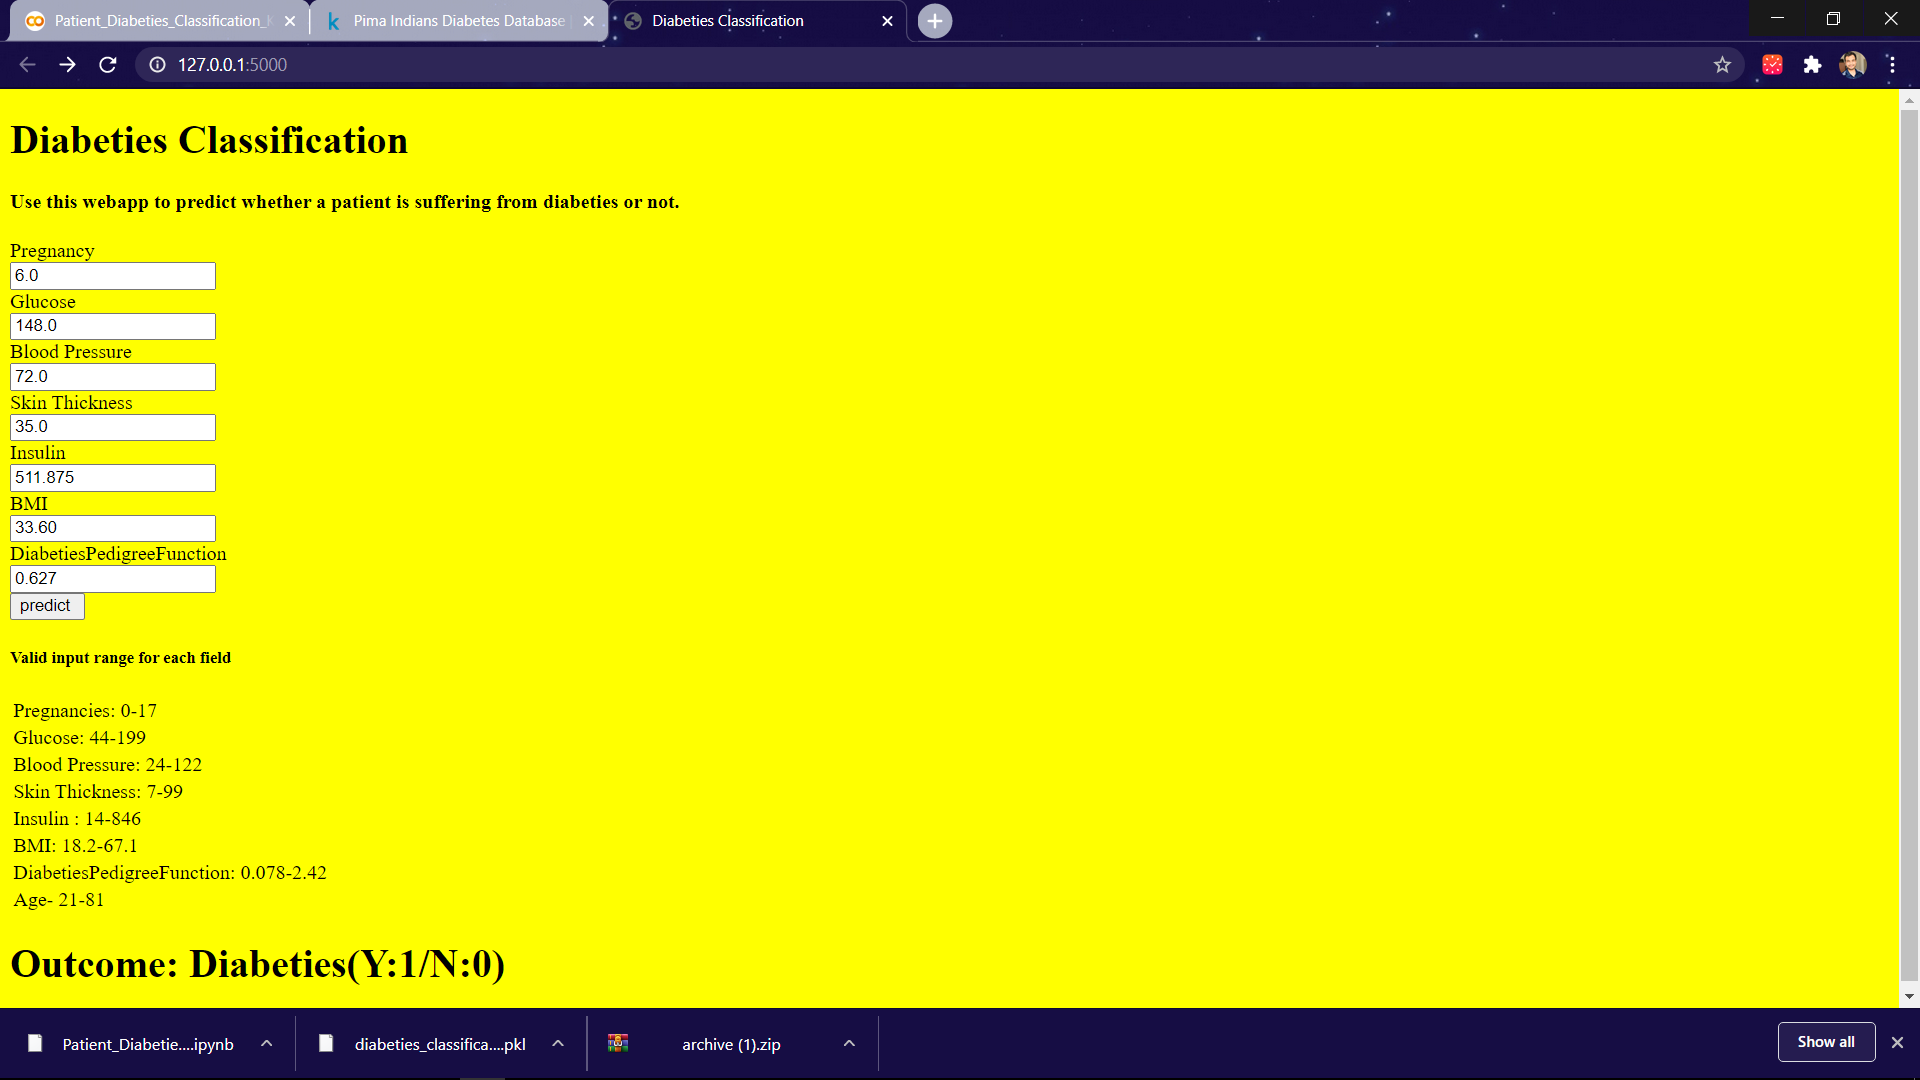
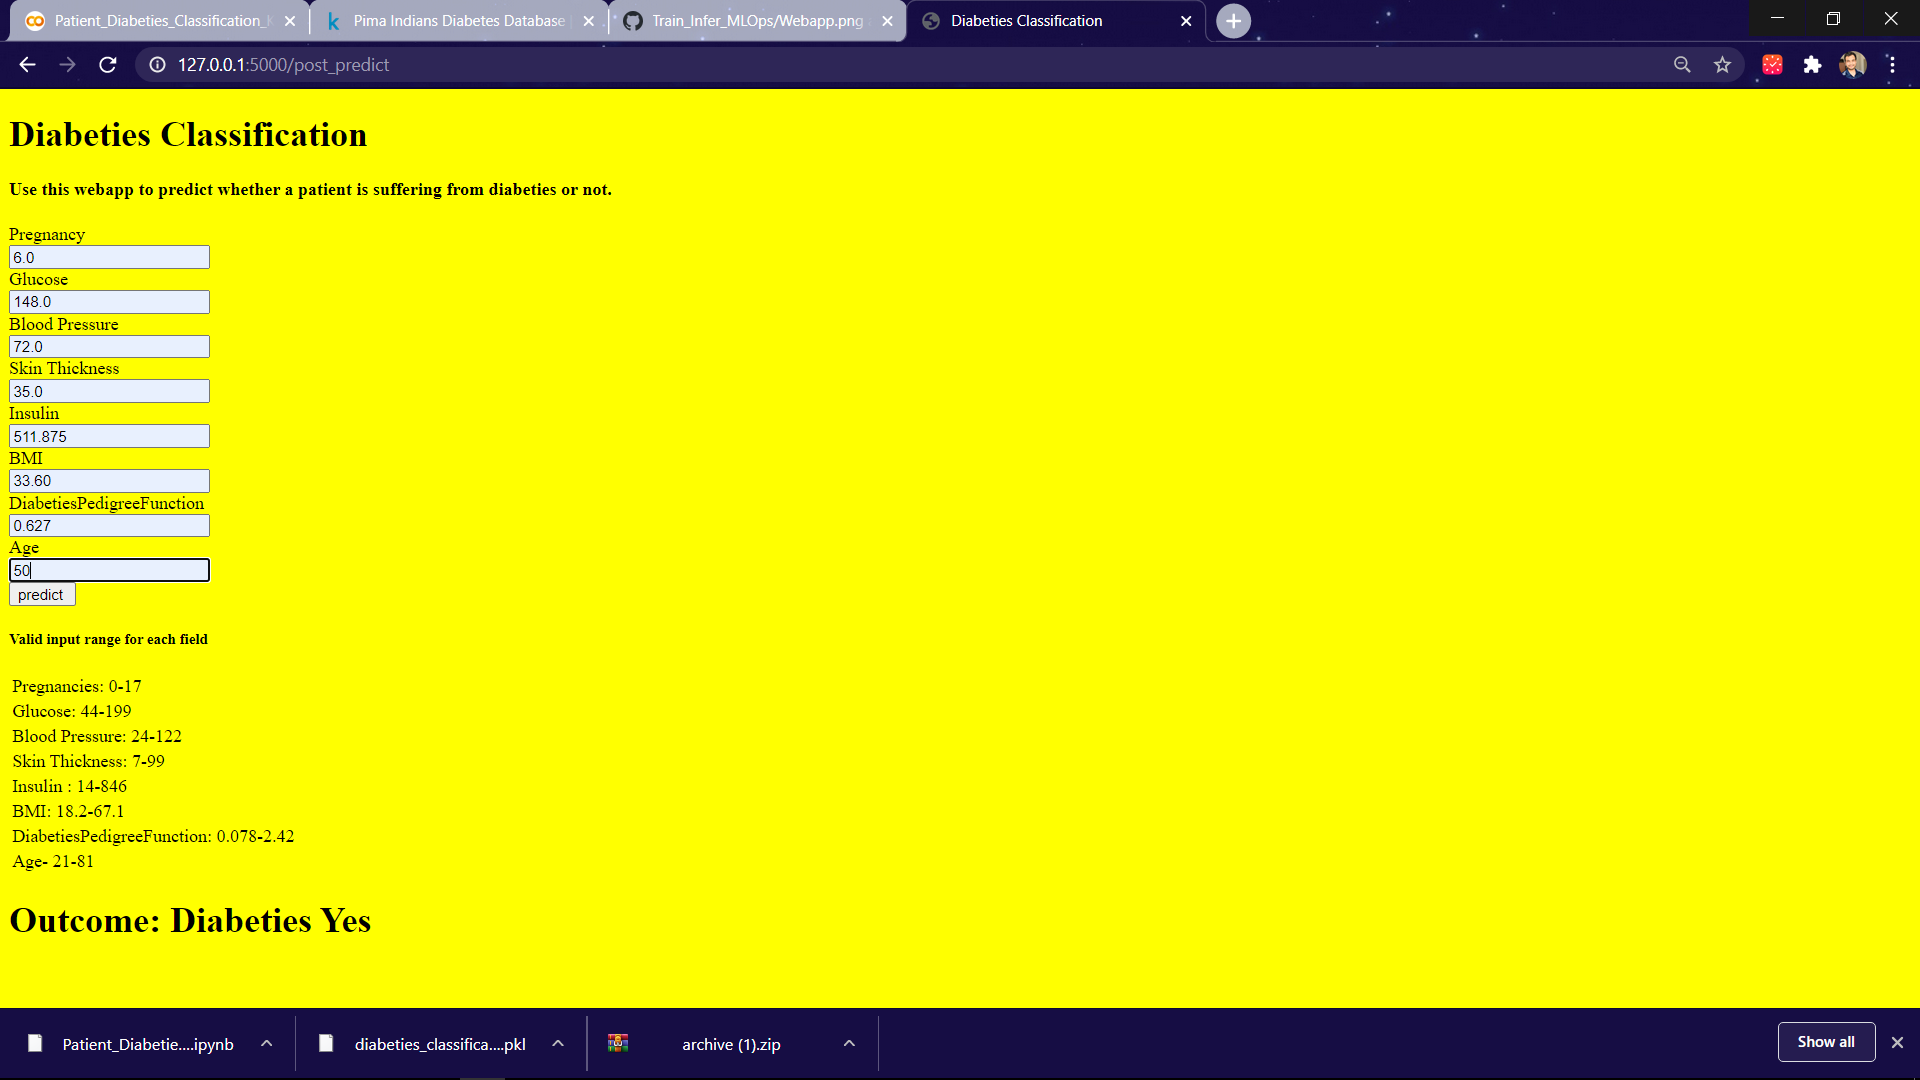
Updated:: Diabeties Classification using KNN

diff --git a/Machine Learning/DiabetiesClassification/templates/index.html b/Machine Learning/DiabetiesClassification/templates/index.html
@@ -7,7 +7,7 @@
 <body bgcolor="yellow">
 <h1> Diabeties Classification</h1>
 <h4> Use this webapp to predict whether a patient is suffering from diabeties or not.</h4>
-<form action = "/input_post" method="post">
+<form action = "/post_predict" method="post">
     <h2> </h2> Pregnancy <br>
     <input type="text" name = "preg"><br>
     Glucose <br>
@@ -22,6 +22,8 @@
     <input type="text" name="bmi"> <br>
     DiabetiesPedigreeFunction <br>
     <input type="text" name="diabetes_ped"> <br>
+    Age <br>
+    <input type="text" name="age"> <br>
     <input type="submit" value="predict ">
 </form>
 <table>
@@ -53,6 +55,6 @@
   </tr>
 
 </table>
-<h1> Outcome: Diabeties(Y:1/N:0) {{output}}</h1>
+<h1> Outcome: Diabeties > {{output}}</h1>
 </body>
 </html>

diff --git a/Machine Learning/DiabetiesClassification/app.py b/Machine Learning/DiabetiesClassification/app.py
@@ -10,7 +10,7 @@ def hello_world():
     return render_template("index.html")
 
 
-@app.route('/input_post',methods=['POST','GET'])
+@app.route('/post_predict',methods=['POST','GET'])
 def login():
     pregnancy=request.form['preg']
     glucose=request.form['gluc']
@@ -22,9 +22,13 @@ def login():
     age=request.form['age']
     feature_vector = [pregnancy,glucose,bp,skinthick,insulin,bmi,diabetes_ped,age]
     feature_vector = np.reshape(feature_vector,(1,8))
+    print(feature_vector)
     out = model.predict(feature_vector)[0]
-    print(out)
-    return render_template('index.html',output=out)
+    if out == 1:
+        output = "Yes"
+    else:
+        output = "No"
+    return render_template('index.html',output=output)
 
 if __name__ == '__main__':
     app.run()
